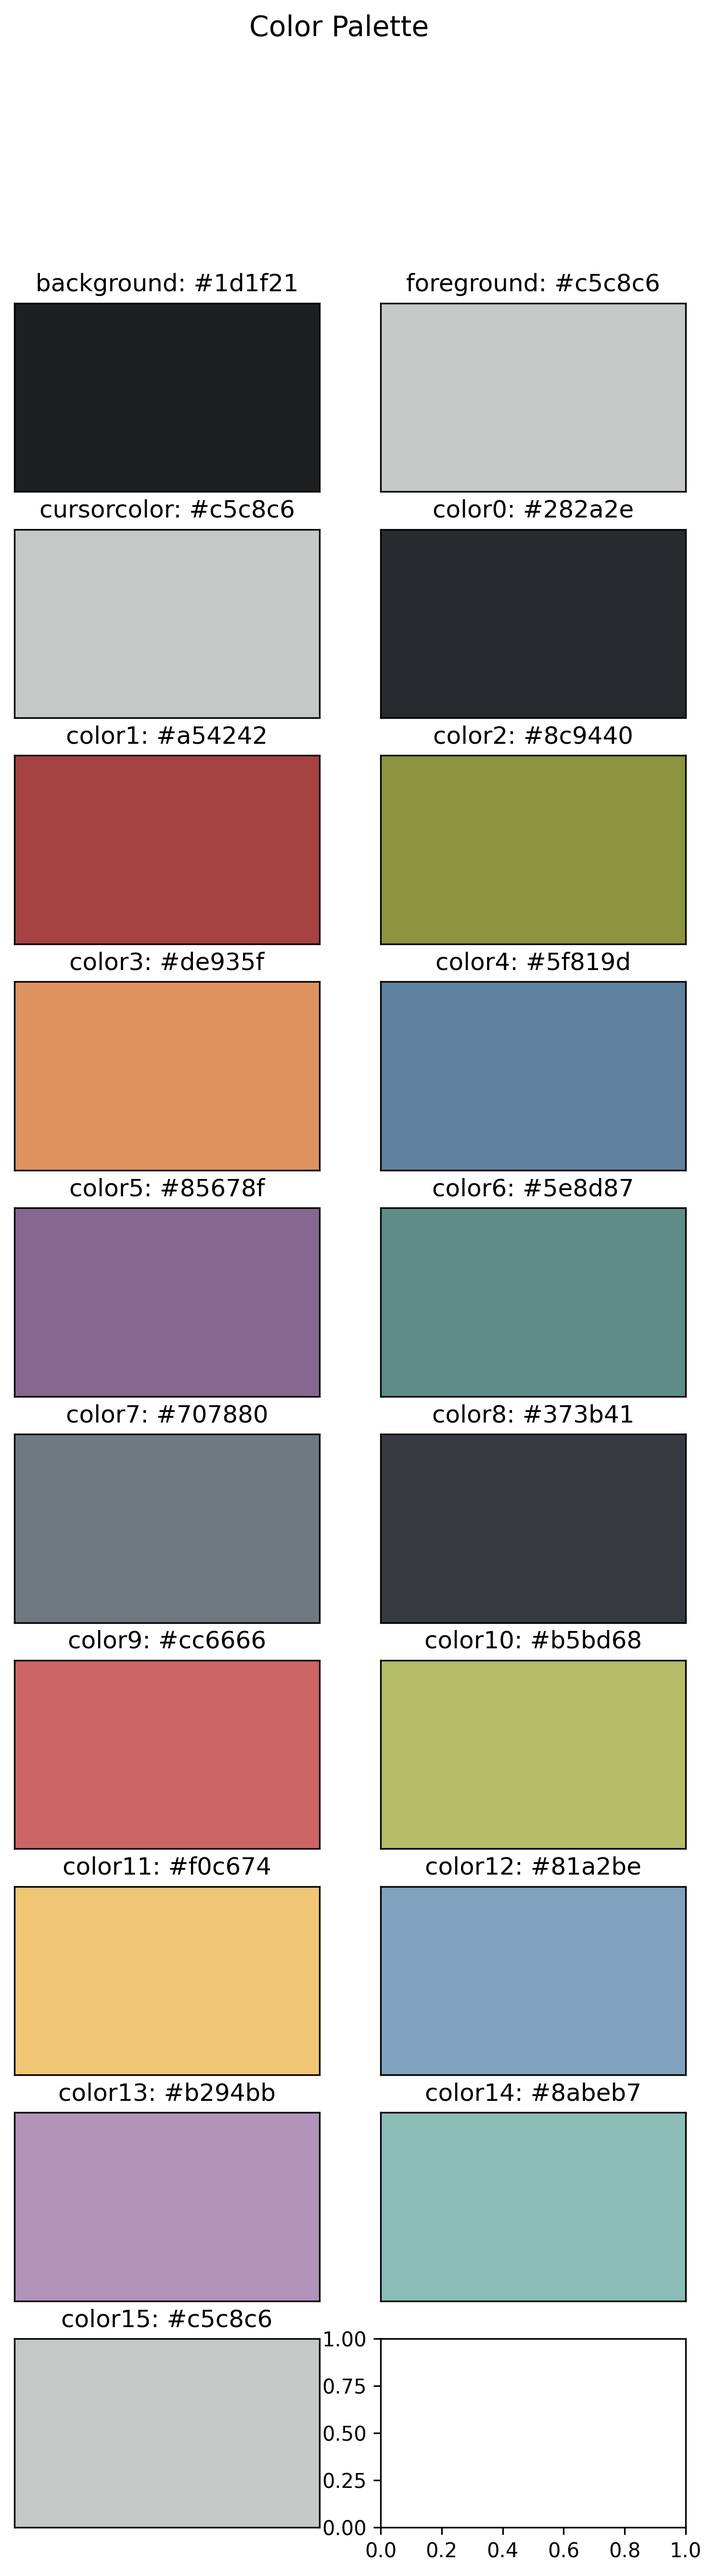
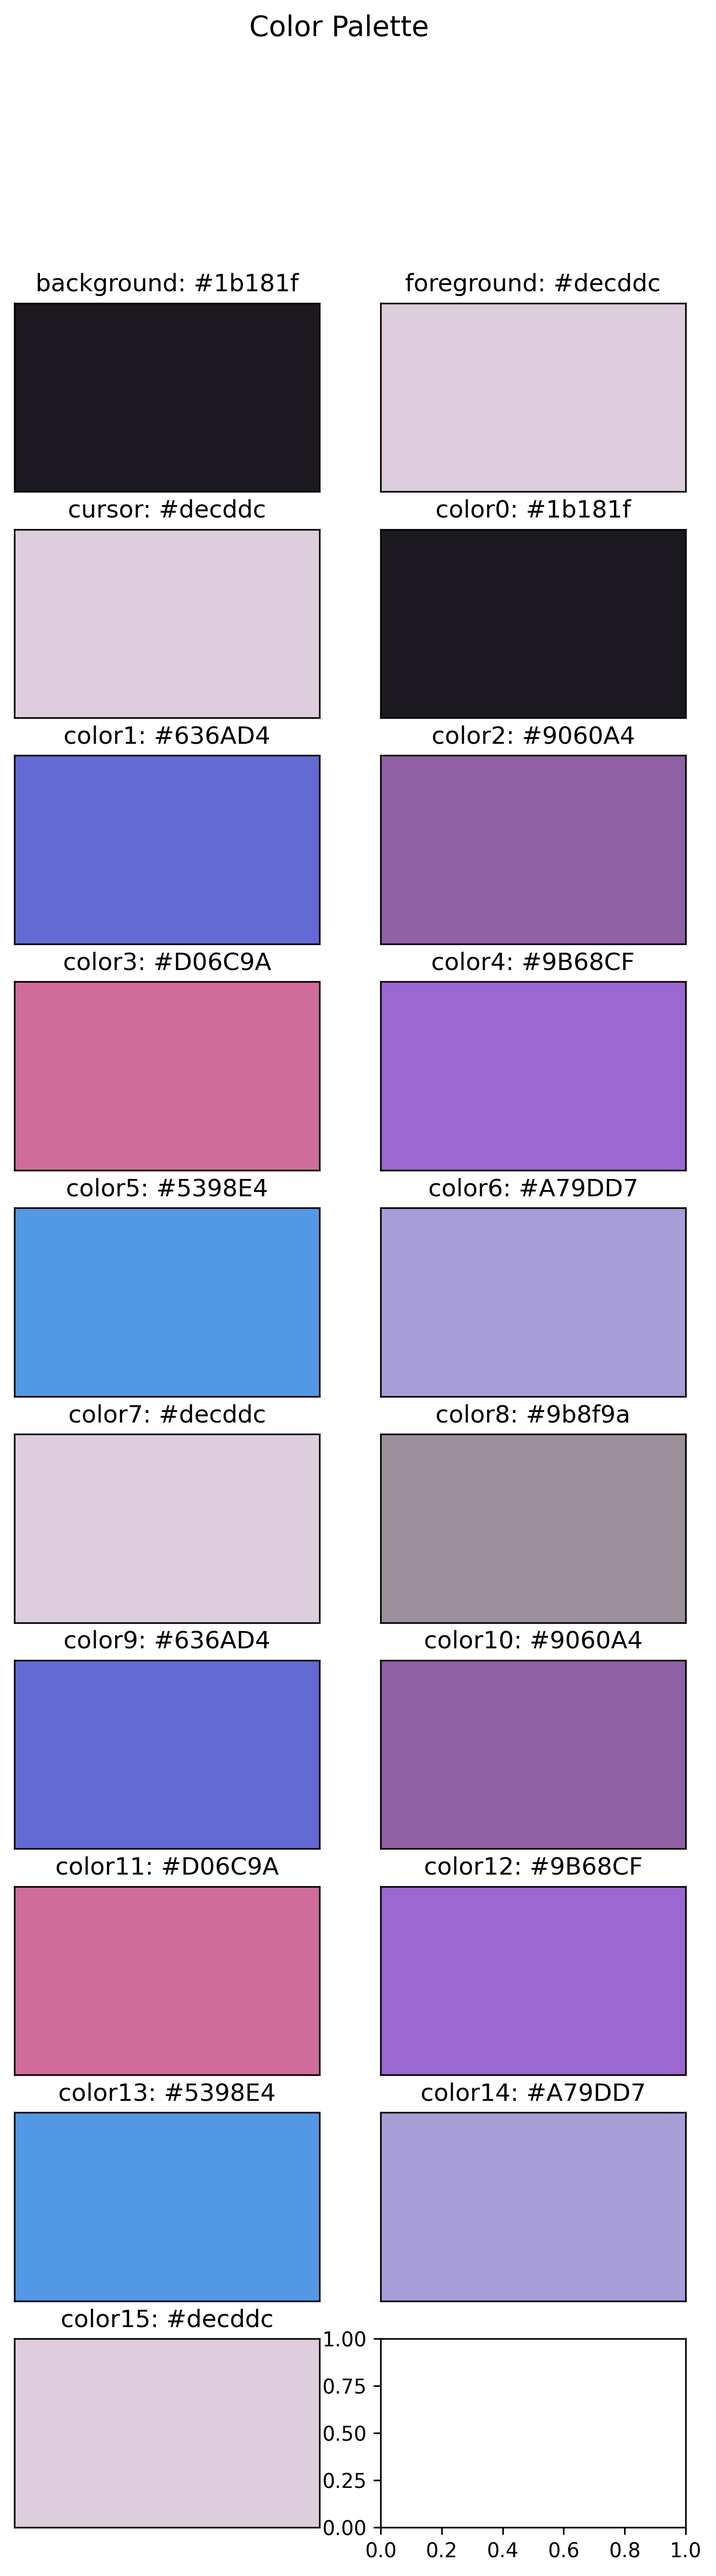
remade hyprcats theme using new format

diff --git a/modules/hyprland.py b/modules/hyprland.py
@@ -30,12 +30,15 @@ def parse_hyprland(template: str,
     else:
         template = os.path.join(template, "hyprland.conf")
 
+    with open(TMP_PATH, 'w') as f:
+        f.write("# generated using hyprland.py in dotfiles project\n\n")
     # copy template into temp file
-    with open(template, "r") as f_in, open(TMP_PATH, "w") as f_out:
+    _configure_variables(config)
+
+    with open(template, "r") as f_in, open(TMP_PATH, "a") as f_out:
         for line in f_in.readlines():
             f_out.write(line)
 
-    _configure_variables(config)
     _configure_general(theme_path)
     _configure_decoration(theme_path)
     _configure_animations(theme_path)
@@ -58,10 +61,10 @@ def _configure_variables(config: Dict):
     browser = config['hyprland'].get('browser', 'firefox')
     menu = config['hyprland'].get('menu', 'wofi --show drun')
 
-    append_text(TMP_PATH, f"$terminal = {term}")
-    append_text(TMP_PATH, f"$fileManager = {file_manager}")
-    append_text(TMP_PATH, f"$browser = {browser}")
-    append_text(TMP_PATH, f"$menu = {menu}")
+    append_text(TMP_PATH, f"$terminal = {term}\n")
+    append_text(TMP_PATH, f"$fileManager = {file_manager}\n")
+    append_text(TMP_PATH, f"$browser = {browser}\n")
+    append_text(TMP_PATH, f"$menu = {menu}\n")
 
 
 def _configure_general(theme_path: str):

diff --git a/modules/waybar.py b/modules/waybar.py
@@ -18,7 +18,7 @@ def parse_waybar(config: Dict,
     """
     Requires waybar config to be fully defined in the theme
     """
-    custom_path: str = f"./themes/{theme_name}/waybary/"
+    custom_path: str = f"./themes/{theme_name}/waybar/"
     config_path: str = os.path.join(custom_path, "config")
     css_path: str = os.path.join(custom_path, "style.css")
 
@@ -39,8 +39,11 @@ def parse_waybar(config: Dict,
 
     config_final_path = os.path.expanduser("~/.config/waybar/config")
     css_final_path = os.path.expanduser("~/.config/waybar/style.css")
+
     shutil.copy2(CONFIG_TMP_PATH, config_final_path)
+    logger.info(f"wrote {CONFIG_TMP_PATH} to {config_final_path}")
     shutil.copy2(CSS_TMP_PATH, css_final_path)
+    logger.info(f"wrote {CSS_TMP_PATH} to {css_final_path}")
 
     return config
 
@@ -48,7 +51,7 @@ def parse_waybar(config: Dict,
 def _parse_colors(css, theme_name: str):
 
     colorscheme_path: str = \
-        os.path.join("themes", theme_name, "colors", "colroscheme.json")
+        os.path.join("themes", theme_name, "colors", "colorscheme.json")
 
     with open(colorscheme_path, "r") as f:
         colorscheme: Dict = json.load(f)

diff --git a/main.py b/main.py
@@ -17,6 +17,7 @@ from modules.bash import parse_bash
 from modules.kitty import parse_kitty
 from modules.alacritty import parse_alacritty
 from modules.hyprland import parse_hyprland
+from modules.waybar import parse_waybar
 
 
 logger = logging.getLogger(__name__)
@@ -103,6 +104,11 @@ path_config = {
         "template": "./default_configs/hyprland/",
         "dest": os.path.expanduser('~/.config/hypr/'),
         "func": parse_hyprland,
+    },
+    "waybar": {
+        "template": "./default_configs/waybar/",
+        "dest": os.path.expanduser('~/.config/waybar/'),
+        "func": parse_waybar,
     }
 }
 
@@ -111,6 +117,7 @@ order = [
     'i3wm',
     'hyprland',
     'polybar',
+    'waybar',
     'wallpaper',
     'nvim',
     'nvchad',

diff --git a/modules/wallpaper.py b/modules/wallpaper.py
@@ -104,6 +104,6 @@ def hyprpaper_theme(config: Dict, theme_name: str):
     with open(hyprpaper_path, "w") as f:
         f.write(f"preload = {wallpaper_dest}\n")
         for m in monitors:
-            f.write(f"wallpaper = {m}, {wallpaper_dest}\n")
+            f.write(f"wallpaper = {m[:-1]}, {wallpaper_dest}\n")
     logger.info(f"wrote wallpaper info to {hyprpaper_path}")
     return config
